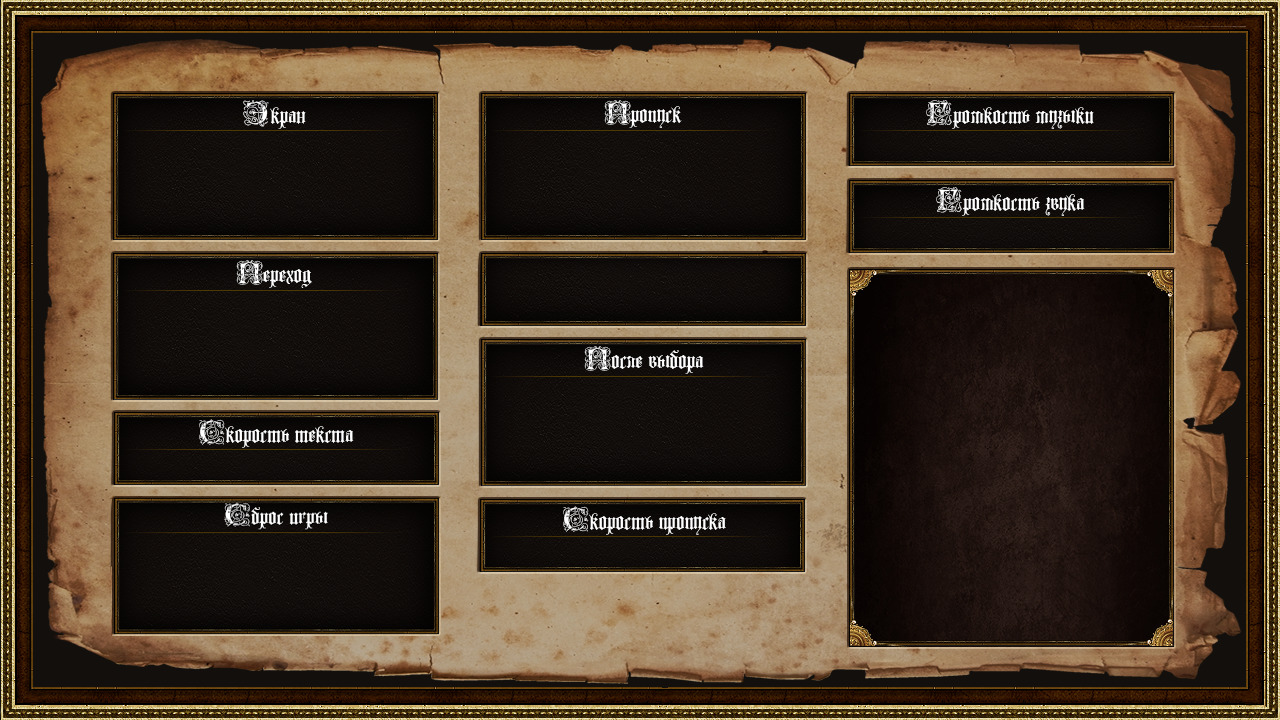
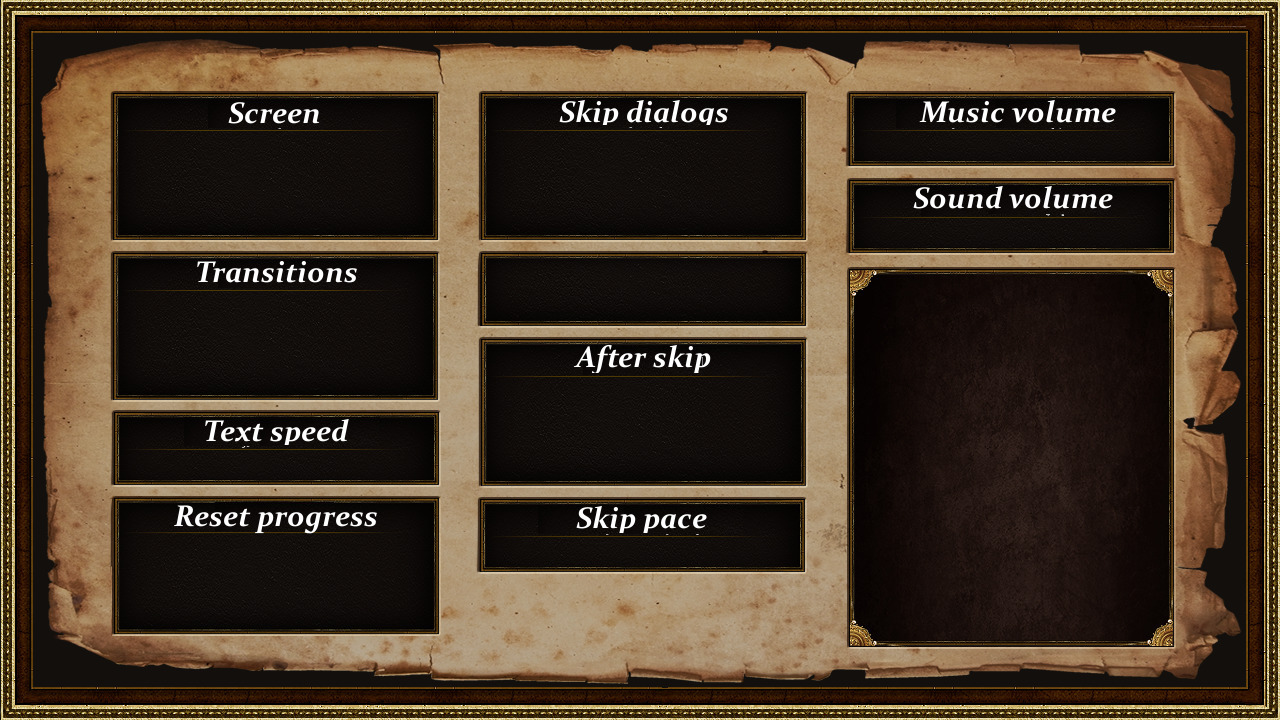
Версия для публикации 1.0.0 en

diff --git a/game/pythoncode/data.py b/game/pythoncode/data.py
@@ -1369,47 +1369,47 @@ dragon_size_description = [
 ]
 
 head_description = {
-    'green': u'не имеет особых способностей',
-    'red': u'изрыгает дымное плямя',
-    'white': u'обладает леденящим дыханием',
-    'blue': u'оснащена жабрами и плавниками',
-    'black': u'испускает нозрдями ядовитые испарения',
-    'iron': u'щетинится стальными пластинами',
-    'bronze': u'способна рыть землю как бронзовый ковш',
-    'silver': u'украшена гребнем по которому струятся молнии',
-    'gold': u'способна видеть невидимое',
-    'shadow': u'повелевает жуткой некромантией'
+    'green': u'have no special abilities',
+    'red': u'spews fire',
+    'white': u'chilling breath',
+    'blue': u'have gills',
+    'black': u'spews poisonous gas',
+    'iron': u'covered in tough steel-like scales',
+    'bronze': u'can dig the earth',
+    'silver': u'spews lightning bolts',
+    'gold': u'can see the unseen',
+    'shadow': u'commands sininster necromantic powers'
 }
 
 wings_description = [
-    u'Он ползает извиваясь по земле подобно исполинскому змею.',
-    u'Он оснащен могучими крыльями, способными нести его по воздуху.',
-    u'У него на спине две пары перепончатых крыл',
+    u'He crawls like a big snake.',
+    u'He has a mighty wings to fly in the sky.',
+    u'he has two pairs of mighty wings',
     u'Он оснащён тремя парами разноразмерных крыльев, обеспечиваюих невероятную маневренность.'
 ]
 
 paws_description = [
-    u'Он ползает извиваясь по земле подобно исполинскому змею.',
-    u'Он опирается на пару мощных когтистых лап',
-    u'У него четыре когтистые лапы.',
-    u'Три пары мощных когтистых лап дают ему невероятную подвижность и устойчивость.'
+    u'He crawls like a big snake.',
+    u'He walks with a pair of mighty legs',
+    u'He has two pairs of paws with claws.',
+    u'He has three pairs of legs.'
 ]
 
 special_features = ('tough_scale', 'poisoned_sting', 'clutches', 'horns', 'fangs', 'ugly')
 
 special_description = [
-    u'Его чешуя крепче чем закалённая цвергами сталь.',
+    u'He has an inpenetrable scales.',
 
-    u'На конце его длинного, извивающегося хвоста находится страшное жало, сочащееся несущим погибель ядом.',
+    u'He has a deadly poison sting in the tip of the tail.',
 
-    u'Его когти острее бритвы и способны пронзить насквозь даже самые прочные доспехи.',
+    u'His claws are razor shatp.',
 
-    u'Величественно изогнутые рога защищают его голову с боков и делают облик дракона ещё более внушительным.',
+    u'The mighty horns are topping his head, providing protection and scary look.',
 
-    u'Его огромные клыки внушают трепет врагу ибо могут играючи разорвать на части даже самого крупного зверя.',
+    u'He has a saber-claws.',
 
-    u'Он настолько чудовищен в своём уродстве, что не каждый отважится даже взглянуть на него прямо, '
-    u'а слабые сердцем бегут от одного лишь его вида.',
+    u'He is so ugly and scary, that no one can look at him straight, '
+    u'and weeklings are simply flee in terror.',
 ]
 
 special_features_rus = {
@@ -1422,12 +1422,12 @@ special_features_rus = {
 }
 
 cunning_description = [
-    u'В глазах дракона читается хитрость и коварство. Он владеет запретным колдовством.',
+    u'The magical spark are flickering in his eyes.',
 
-    u'Сверкающие подобно полированному антрациту глаза дракона обладают гипнотической силой. '
-    u'Его колдовская мощь велика.',
+    u'The flame of magic fires in his eyes. '
+    u'His maggical power is great.',
 
-    u'Взгляд дракона светится нечеловеческим коварством. Сила его колдовских чар просто невероятна.',
+    u'He comands the immense magical powers.',
 ]
 
 # TODO: Text module with numerals
@@ -1694,7 +1694,7 @@ quest_list = (
     {   # Снизить боеспособность королевства.
         'min_lvl': 3,  # минимальный уровень дракона для получения квеста
         'max_lvl': 3,  # максимальный уровень дракона для получения квеста
-        'text': u"(rise kingdom mobilization, then drop it) \n Сегодня день твоего совершеннолетия. Это значит, что пришла пора и тебе как до того твоим предкам, отправляться в Земли Вольных народов. Среди всех, люди самые мерзкие. Они многочисленны и организованы. Их королевство огромно. И они уже знают о появлении драконов, а значит будут защищаться. \n   Когда твоя дурная слава растёт, вслед за ней растёт мобилизация королевства. Они будут увеличивать свою армию, вышлют на дороги патрули. Чем выше мобилизация, тем лучше защищено королевство. Но мы можем помешать людям собраться с силами. Для этого подойдут любые способы: можно разорять деревни, жечь амбары и мельницы. Тогда в стране начнётся разруха и мобилизация упадёт. Можно наводнить королевство отродьями, которые отвлекут войска на себя. А можно просто заплатить разбойникам с одинокого острова, чтобы они начали саботаж. Так или иначе, но ты должен уметь справляться с угрозой. Вот что ты должен сделать: \n   Сначала стяжай дурную славу и ложись спать. Как проснёшься, люди уже будут суетиться. Тогда то и надо будет сделать что-нибудь, чтобы умерить их пыл. Когда мобилизация упадёт, считай что сделал всё что нужно. Можешь возвращаться ко мне за наградой! \n   Сроку дам тебе десять лет. Этого должно быть более чем достаточно для такой простой задачи. ",  # текст квеста
+        'text': u"(rise kingdom mobilization, then drop it down) \n Сегодня день твоего совершеннолетия. Это значит, что пришла пора и тебе как до того твоим предкам, отправляться в Земли Вольных народов. Среди всех, люди самые мерзкие. Они многочисленны и организованы. Их королевство огромно. И они уже знают о появлении драконов, а значит будут защищаться. \n   Когда твоя дурная слава растёт, вслед за ней растёт мобилизация королевства. Они будут увеличивать свою армию, вышлют на дороги патрули. Чем выше мобилизация, тем лучше защищено королевство. Но мы можем помешать людям собраться с силами. Для этого подойдут любые способы: можно разорять деревни, жечь амбары и мельницы. Тогда в стране начнётся разруха и мобилизация упадёт. Можно наводнить королевство отродьями, которые отвлекут войска на себя. А можно просто заплатить разбойникам с одинокого острова, чтобы они начали саботаж. Так или иначе, но ты должен уметь справляться с угрозой. Вот что ты должен сделать: \n   Сначала стяжай дурную славу и ложись спать. Как проснёшься, люди уже будут суетиться. Тогда то и надо будет сделать что-нибудь, чтобы умерить их пыл. Когда мобилизация упадёт, считай что сделал всё что нужно. Можешь возвращаться ко мне за наградой! \n   Сроку дам тебе десять лет. Этого должно быть более чем достаточно для такой простой задачи. ",  # текст квеста
         'fixed_time': 10,  # количество лет на выполнение квеста, не зависящее от уровня дракона
         # ключевое слово для описания задачи, 'poverty' - проверяется уровень понижения мобилизации из-за разрухи
         'task': 'poverty',

diff --git a/game/pythoncode/girls_data.py b/game/pythoncode/girls_data.py
@@ -477,7 +477,7 @@ girls_texts = {
             u"%(girl_name)s - %(girl_title)s.",
         ),
         'free': (  # Описание процесса выпускания на свободу
-            u"Пусть сама заботится о себе. Если её не убьют свои же, узнав что за отродье растёт в её чреве...",
+            u"She may go now, whith your offspring in her belly. If she will survive...",
         ),
         'free_prison': (  # Описание процесса выпускания на свободу из тюрьмы
             u"Незачем держать её взаперти, охранять ещё... пусть катится на все четыре стороны.",
@@ -516,7 +516,7 @@ girls_texts = {
             u"%(girl_name)s умирает от голода.",
         ),
         'kill': (  # Описание смерти от селян
-            u"Люди узнают, что %(girl_name)s беременна от дракона и убивают её.",
+            u"Someone, discovers that %(girl_name)s is impregnated by a dragon. The angry mob kills her ruthlesly...",
         ),
         'free_spawn': (  # Описание родов на свободе
             u"%(girl_name)s в тайне от людей откладывает яйца из которых вылупляются кровожадные монстры... Теперь они будут резвиться на воле, терроризируя округу и возможно сожрут собственную мать.",
